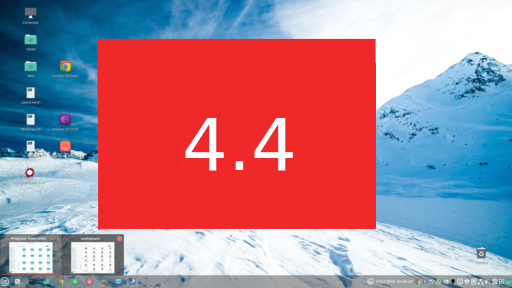
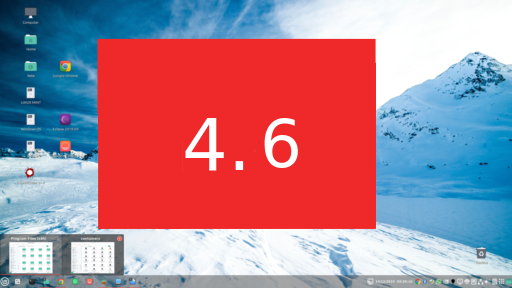
Update and refined some thing for cinnamon 4.6

Changed region(s): [[0.5, 0.4062, 0.5938, 0.5938]]

diff --git a/files/Numix-Cinnamon-Semi-Transparent/cinnamon/cinnamon.css b/files/Numix-Cinnamon-Semi-Transparent/cinnamon/cinnamon.css
@@ -25,7 +25,7 @@ stage {
  * ! Tooltips
  * ====================================== */
 #Tooltip {
-  border-image: url("img/containers/tooltip.svg") 10;
+  border-image: url("img/containers/little-transparent-bg.svg") 10;
   padding: 6px 8px;
   color: #eee;
   font-size: 12px;
@@ -264,15 +264,18 @@ StScrollBar StButton#hhandle:active {
  * ! Slider
  * ====================================== */
 .slider {
-  height: 16px;
-  min-width: 15em;
-  -slider-height: 0;
-  -slider-background-color: transparent;
-  -slider-border-color: #525252;
-  -slider-active-background-color: transparent;
-  -slider-active-border-color: #f0544c;
-  -slider-border-width: 2px;
-  -slider-handle-radius: 4px;
+      -slider-height: 0.3em;
+      -slider-background-color: #525252;
+      -slider-border-color: rgba(82, 82, 82, 0.3);
+      -slider-active-background-color: $accent-primary;
+      -slider-active-border-color: rgba(82, 82, 82, 0.3);
+      -slider-border-width: 1px;
+      -slider-handle-radius: 0.5em;
+      height: 1em;
+      min-width: 15em;
+      border: 0 solid transparent;
+      border-right-width: 1px;
+      border-left-width: 5px;
 }
 
 .separator {
@@ -375,15 +378,18 @@ StScrollBar StButton#hhandle:active {
 }
 
 .popup-slider-menu-item {
-  height: 16px;
+  -slider-height: 0.3em;
+  -slider-background-color: #525252;
+  -slider-border-color: rgba(82, 82, 82, 0.3);
+  -slider-active-background-color: #f0544c;
+  -slider-active-border-color: rgba(82, 82, 82, 0.3);
+  -slider-border-width: 1px;
+  -slider-handle-radius: 0.5em;
+  height: 1em;
   min-width: 15em;
-  -slider-height: 0;
-  -slider-background-color: transparent;
-  -slider-border-color: #525252;
-  -slider-active-background-color: transparent;
-  -slider-active-border-color: #f0544c;
-  -slider-border-width: 2px;
-  -slider-handle-radius: 4px;
+  border: 0 solid transparent;
+  border-right-width: 1px;
+  border-left-width: 5px;
 }
 
 /* Right click in scale (show all windows) */
@@ -2219,10 +2225,11 @@ StScrollBar StButton#hhandle:active {
 }
 
 .menu-selected-app-box {
+  padding-top: 10px;
   padding-right: 30px;
   padding-left: 30px;
   text-align: right;
-  height: 1.2em;
+  height: 2.8em;
 }
 
 .menu-selected-app-title {

diff --git a/files/Numix-Cinnamon-Semi-Transparent/cinnamon/scss/main/_popup-menus.scss b/files/Numix-Cinnamon-Semi-Transparent/cinnamon/scss/main/_popup-menus.scss
@@ -89,15 +89,18 @@
 }
 
 .popup-slider-menu-item {
-    height: 16px;
-    min-width: 15em;
-    -slider-height: 0;
-    -slider-background-color: rgba(0, 0, 0, 0);
-    -slider-border-color: #525252;
-    -slider-active-background-color: rgba(0, 0, 0, 0);
-    -slider-active-border-color: $accent-primary;
-    -slider-border-width: 2px;
-    -slider-handle-radius: 4px;
+      -slider-height: 0.3em;
+      -slider-background-color: #525252;
+      -slider-border-color: rgba(82, 82, 82, 0.3);
+      -slider-active-background-color: $accent-primary;
+      -slider-active-border-color: rgba(82, 82, 82, 0.3);
+      -slider-border-width: 1px;
+      -slider-handle-radius: 0.5em;
+      height: 1em;
+      min-width: 15em;
+      border: 0 solid transparent;
+      border-right-width: 1px;
+      border-left-width: 5px;
 }
 
 /* Right click in scale (show all windows) */

diff --git a/files/Numix-Cinnamon-Semi-Transparent/cinnamon/scss/main/controls/_slider.scss b/files/Numix-Cinnamon-Semi-Transparent/cinnamon/scss/main/controls/_slider.scss
@@ -3,13 +3,16 @@
  * ====================================== */
 
 .slider {
-    height: 16px;
-    min-width: 15em;
-    -slider-height: 0;
-    -slider-background-color: rgba(0, 0, 0, 0);
-    -slider-border-color: #525252;
-    -slider-active-background-color: rgba(0, 0, 0, 0);
-    -slider-active-border-color: $accent-primary;
-    -slider-border-width: 2px;
-    -slider-handle-radius: 4px;
+      -slider-height: 0.3em;
+      -slider-background-color: #525252;
+      -slider-border-color: rgba(82, 82, 82, 0.3);
+      -slider-active-background-color: $accent-primary;
+      -slider-active-border-color: rgba(82, 82, 82, 0.3);
+      -slider-border-width: 1px;
+      -slider-handle-radius: 0.5em;
+      height: 1em;
+      min-width: 15em;
+      border: 0 solid transparent;
+      border-right-width: 1px;
+      border-left-width: 5px;
 }

diff --git a/files/Numix-Cinnamon-Semi-Transparent/cinnamon/scss/main/_tooltips.scss b/files/Numix-Cinnamon-Semi-Transparent/cinnamon/scss/main/_tooltips.scss
@@ -3,7 +3,7 @@
  * ====================================== */
 
 #Tooltip {
-    border-image: url("img/containers/tooltip.svg") 10;
+    border-image: url("img/containers/little-transparent-bg.svg") 10;
     padding: 6px 8px;
     color: $text-primary;
     font-size: $font-size-base;

diff --git a/files/Numix-Cinnamon-Semi-Transparent/cinnamon/scss/main/applets/_app-menu.scss b/files/Numix-Cinnamon-Semi-Transparent/cinnamon/scss/main/applets/_app-menu.scss
@@ -91,10 +91,11 @@
 }
 
 .menu-selected-app-box {
+    padding-top: 10px;
     padding-right: 30px;
     padding-left: 30px;
     text-align: right;
-    height: 1.2em;
+    height: 2.8em;
 }
 
 .menu-selected-app-title {
